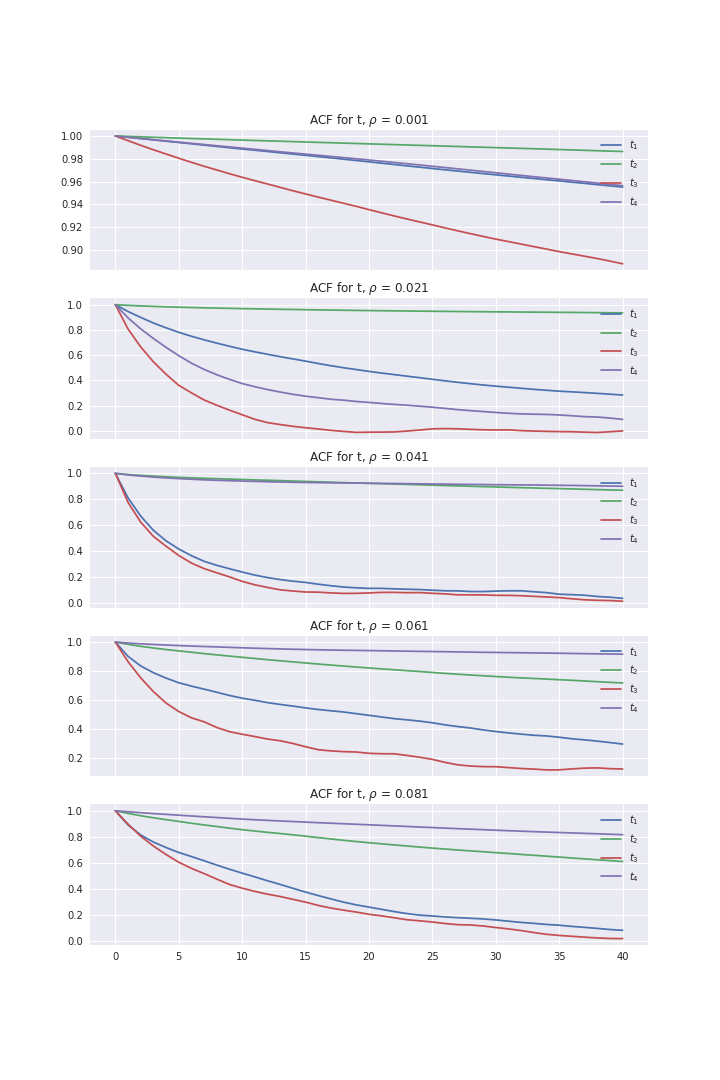
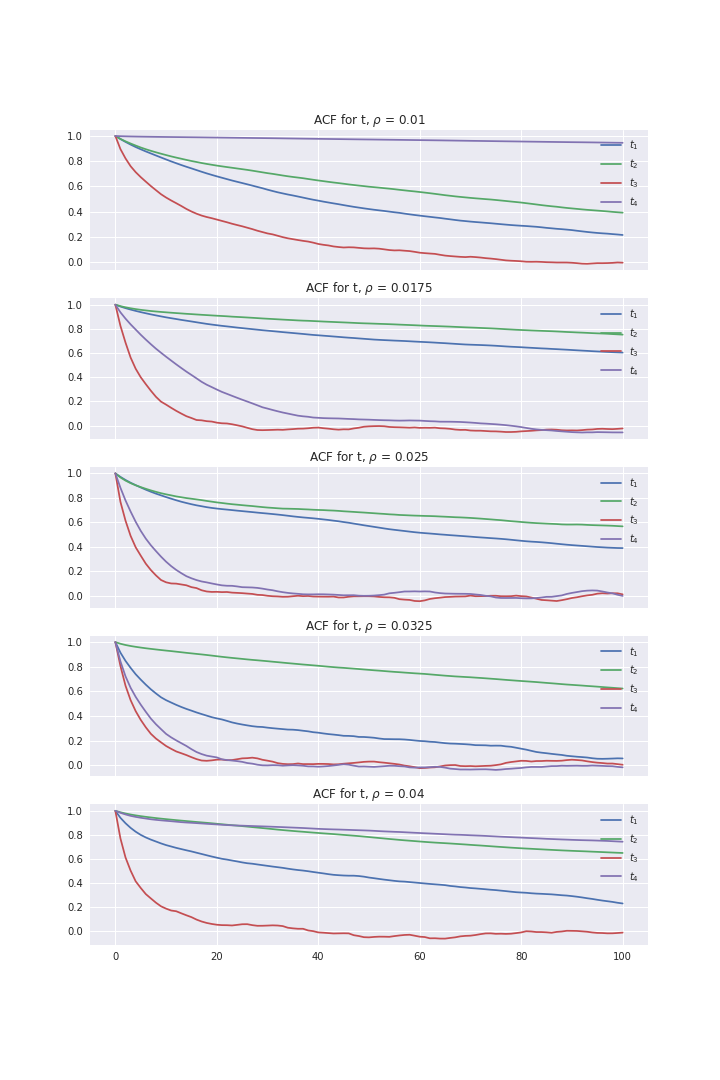
Update to acf

diff --git a/monte-carlo/HA 3/ha3.tex b/monte-carlo/HA 3/ha3.tex
@@ -71,7 +71,7 @@ From this expression we can conclude that the marginal posterior for $\lambda$ i
 Similarly, for $\theta$:
 \begin{equation}
     \begin{gathered}
-        f(\theta|, \tau, \lambda, t) \propto f(\theta)f(\lambda|\theta) = f(\theta)\prod_{i=1}^d f(\lambda_i|\theta)= \\
+        f(\theta|\tau, \lambda, t) \propto f(\theta)f(\lambda|\theta) = f(\theta)\prod_{i=1}^d f(\lambda_i|\theta)= \\
         = \Psi^2\theta\exp(-\theta\Psi)\prod_{i=1}^d(\theta^2\lambda_i\exp(-\lambda_i\theta)) = \\
         = \Psi^2\theta^{2d+1}\exp(-\theta(\Psi+\sum_{i=1}^d\lambda_i))\prod_{i=1}^d\lambda_i
     \end{gathered}
@@ -133,7 +133,7 @@ Which means that for the random walk proposal of $t$ we get the acceptance proba
 which means that we can calculate the acceptance probability from known proability density functions.
 \subsection*{c) Results for different amounts of break points}
 
-We proceed by running the simulation for different amount of breakpoints to how the behaviour of the chain varies. The results are plotted in figure \ref{fig:num_breakpoints_results} and the final intensities are shown in table XXX
+We proceed by running the simulation for different amount of breakpoints to how the behaviour of the chain varies. The results are plotted in figure \ref{fig:num_breakpoints_results}.
 
 \begin{figure}[H]
     \centering
@@ -164,7 +164,9 @@ When sampling $\lambda$ the prior distribution is  $\lambda \sim \Gamma(2,\theta
 Here we can see that as $\Psi$ increases $\theta$ decreases. However, this does not seem to have a significant effect on $\lambda$, as the mean and variance seems rather constant.
 
 \subsection*{e) Dependance on proposal parameter $\rho$}
-Another parameter specified when initiating the algorithm is the parameter $\rho$ which is used in the proposal kernel for $t$ (see equation (\ref{eq:proposal_kernel})). The parameter can be interpreted as a coefficient in the step length of the random walk proposal. If $\rho$ is large the proposal on average takes larger steps compared to when $\rho$ is small. A large $\rho$ results in faster movement and better mixing in the chain estimating $t$, but with smaller acceptance rates. A small $\rho$ gives slow movement and worse mixing, but higher acceptance rate. To measure the mixing we look at the ACF for the sampled breakpoints. Fast mixing implies that the ACF decreases fast, while slow mixing gives autocorrelation for many iterations. In figure \ref{fig:accept_rho} we simulate the algorithm for different $\rho$ and plot the acceptance rates, and in figure \ref{fig:acf} we plot the ACF for the sampled breakpoints. For the following attempts we use $10 000$ samples and $\Psi = 20$.
+Another parameter specified when initiating the algorithm is the parameter $\rho$ which is used in the proposal kernel for $t$ (see equation (\ref{eq:proposal_kernel})). The parameter can be interpreted as a coefficient in the step length of the random walk proposal. If $\rho$ is large the proposal on average takes larger steps compared to when $\rho$ is small. A large $\rho$ results in faster movement but with smaller acceptance rates. A small $\rho$ gives slow movement but higher acceptance rate. To measure the mixing we look at the ACF for the sampled breakpoints. Fast mixing implies that the ACF decreases fast, while slow mixing gives autocorrelation for many iterations. As we can see in figure \ref{fig:acf} the ACF declines the fastest when $\rho$ is around 0.025 - 0.0325, for this $\rho$ we get an acceptance factor of approximately 30\% as seen in figure \ref{fig:accept_rho}, this is in line with the general recommendation.
+
+For the following attempts we use $10 000$ samples a burn in of $1000$ and $\Psi = 20$.
 
 \begin{figure}[H]
     \centering
@@ -176,7 +178,7 @@ Another parameter specified when initiating the algorithm is the parameter $\rho
 \begin{figure}[H]
     \centering
     \includegraphics[width = 1.0\textwidth]{images/ACF.png} 
-    \caption{ACF for t given different values of $\rho$}
+    \caption{ACF for the breakpoints for different timesteps and different values of $\rho$}
     \label{fig:acf}
 \end{figure}
 
